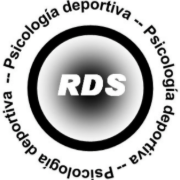
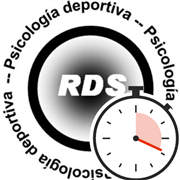
rds-reaction-test-v116: icono con cronometro de agujas (doble tamano, sin marco)

diff --git a/index.html b/index.html
@@ -948,7 +948,7 @@ footer {
   <button class="start-btn rank-btn" onclick="showFullRanking()" aria-label="Ranking"><svg viewBox="0 0 24 24" width="30" height="30" fill="none" stroke="#333333" stroke-width="2" stroke-linecap="round" stroke-linejoin="round" aria-hidden="true"><path d="M8 21h8M12 13.5v7.5M7 4h10v5a5 5 0 0 1-10 0V4z"/><path d="M7 4H4v2a3 3 0 0 0 3 3M17 4h3v2a3 3 0 0 1-3 3"/></svg></button>
 </div>
   </div>
-  <div class="app-ver" style="margin-top:6px;padding-top:0;">v115</div>
+  <div class="app-ver" style="margin-top:6px;padding-top:0;">v116</div>
   <div id="user-name-bar" style="margin-top:8px;">
     <div style="display:flex;width:200px;gap:0;margin:0 auto;">
       <input id="user-ini-input" type="text" maxlength="3" placeholder="INI"

diff --git a/sw.js b/sw.js
@@ -1,5 +1,5 @@
 /* RDS Velocidad de Reaccion - Service Worker */
-var CACHE = 'rds-reaction-v109';
+var CACHE = 'rds-reaction-v110';
 var ASSETS = [
   './',
   './index.html',
